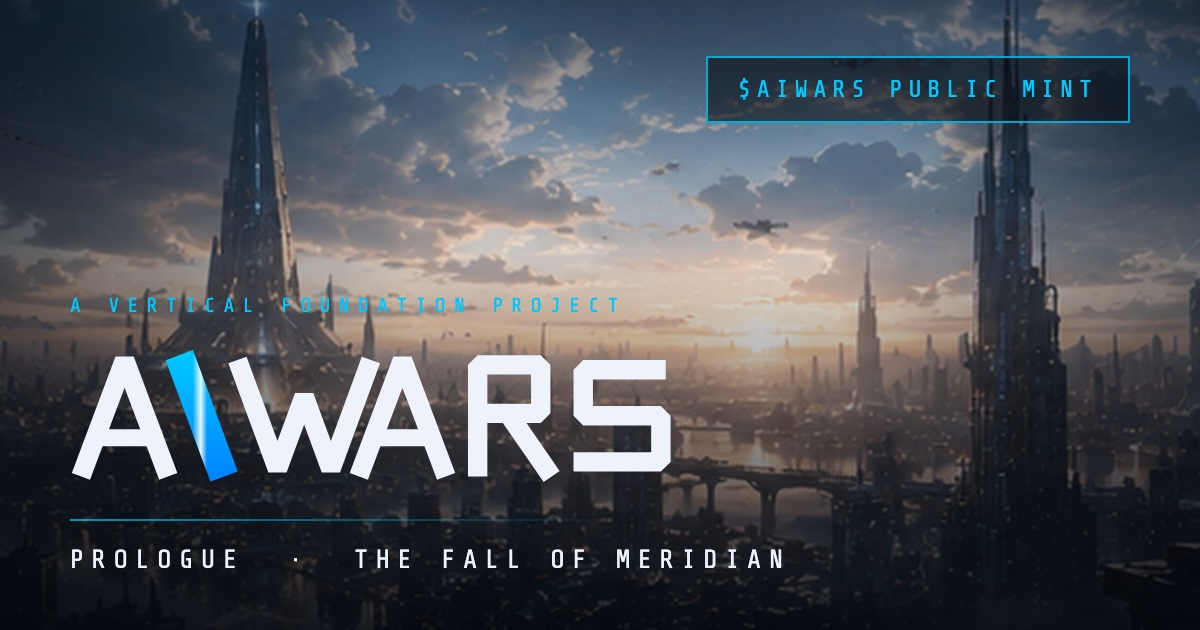
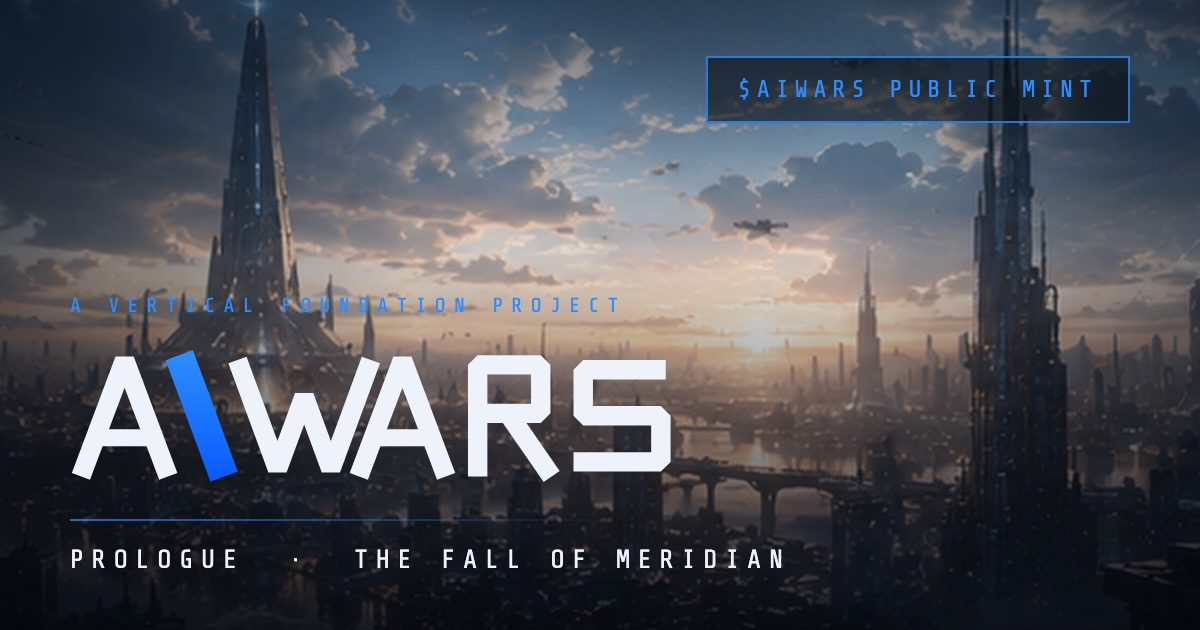
Zoom blue (#0b5cff/#2d8cff) accent palette, flat I without gleam

diff --git a/app/globals.css b/app/globals.css
@@ -8,8 +8,8 @@
   --color-ink: #eef3fb;
   --color-dim: #b9c5da;
   --color-faint: #8fa0ba;
-  --color-signal: #00c8ff;
-  --color-signal-deep: #0084ff;
+  --color-signal: #2d8cff;
+  --color-signal-deep: #0b5cff;
   --color-ember: #f0954f;
   --font-display: var(--font-display);
   --font-body: var(--font-body);
@@ -29,7 +29,7 @@ body {
 }
 
 ::selection {
-  background: rgba(0, 200, 255, 0.25);
+  background: rgba(45, 140, 255, 0.25);
   color: #ffffff;
 }
 
@@ -74,8 +74,8 @@ p {
 }
 
 .panel-glow:hover {
-  border-color: rgba(0, 200, 255, 0.45);
-  box-shadow: 0 0 40px rgba(0, 132, 255, 0.08), inset 0 0 24px rgba(0, 132, 255, 0.04);
+  border-color: rgba(45, 140, 255, 0.45);
+  box-shadow: 0 0 40px rgba(11, 92, 255, 0.08), inset 0 0 24px rgba(11, 92, 255, 0.04);
   transform: translateY(-2px);
 }
 
@@ -175,7 +175,7 @@ p {
 /* -- thin gradient rule -- */
 .rule {
   height: 1px;
-  background: linear-gradient(90deg, transparent, rgba(0, 200, 255, 0.4), transparent);
+  background: linear-gradient(90deg, transparent, rgba(45, 140, 255, 0.4), transparent);
 }
 
 /* -- slow drift for section background art -- */
@@ -197,7 +197,7 @@ p {
 }
 
 .grad-text {
-  background: linear-gradient(90deg, #0084ff, #eef3fb, #00c8ff, #0084ff);
+  background: linear-gradient(90deg, #0b5cff, #eef3fb, #2d8cff, #0b5cff);
   background-size: 250% auto;
   -webkit-background-clip: text;
   background-clip: text;
@@ -216,8 +216,8 @@ p {
 
 /* -- pulsing primary CTA -- */
 @keyframes ctapulse {
-  0%, 100% { box-shadow: 0 0 0 0 rgba(0, 132, 255, 0.35), 0 0 24px rgba(0, 132, 255, 0.12); }
-  50% { box-shadow: 0 0 0 6px rgba(0, 132, 255, 0), 0 0 44px rgba(0, 132, 255, 0.3); }
+  0%, 100% { box-shadow: 0 0 0 0 rgba(11, 92, 255, 0.35), 0 0 24px rgba(11, 92, 255, 0.12); }
+  50% { box-shadow: 0 0 0 6px rgba(11, 92, 255, 0), 0 0 44px rgba(11, 92, 255, 0.3); }
 }
 
 .btn-pulse {
@@ -228,7 +228,7 @@ p {
 .agent-tile {
   position: relative;
   overflow: hidden;
-  border: 1px solid rgba(0, 200, 255, 0.14);
+  border: 1px solid rgba(45, 140, 255, 0.14);
   background:
     linear-gradient(150deg, hsl(var(--hue) 85% 62% / 0.2), rgba(6, 10, 20, 0.92) 60%),
     linear-gradient(330deg, hsl(var(--hue) 85% 55% / 0.12), transparent 50%);
@@ -306,13 +306,13 @@ p {
 /* -- RGB-split glitch bursts on the hero wordmark -- */
 @keyframes glitchshift {
   0%, 34%, 42%, 78%, 90%, 100% { filter: none; transform: none; opacity: 1; }
-  35% { filter: drop-shadow(-8px 0 rgba(0, 132, 255, 0.95)) drop-shadow(8px 0 rgba(240, 90, 79, 0.8)); transform: translate(4px, -3px) skewX(-4deg); }
-  36.5% { filter: drop-shadow(7px 0 rgba(0, 132, 255, 0.95)) drop-shadow(-7px 0 rgba(240, 90, 79, 0.8)); transform: translate(-6px, 2px) skewX(3deg); opacity: 0.85; }
-  38% { filter: drop-shadow(-4px 0 rgba(0, 200, 255, 0.9)) drop-shadow(4px 0 rgba(240, 149, 79, 0.7)); transform: translateX(3px) scaleY(1.02); }
-  40% { filter: drop-shadow(2px 0 rgba(0, 132, 255, 0.8)); transform: translateX(-1px); }
-  79% { filter: drop-shadow(9px 0 rgba(0, 132, 255, 0.95)) drop-shadow(-9px 0 rgba(240, 90, 79, 0.85)); transform: translate(-5px, 3px) skewX(5deg); opacity: 0.8; }
-  81% { filter: drop-shadow(-6px 0 rgba(0, 200, 255, 0.9)) drop-shadow(6px 0 rgba(240, 149, 79, 0.75)); transform: translate(5px, -2px) skewX(-3deg); }
-  83.5% { filter: drop-shadow(3px 0 rgba(0, 132, 255, 0.85)); transform: translateX(2px) scaleY(0.99); }
+  35% { filter: drop-shadow(-8px 0 rgba(11, 92, 255, 0.95)) drop-shadow(8px 0 rgba(240, 90, 79, 0.8)); transform: translate(4px, -3px) skewX(-4deg); }
+  36.5% { filter: drop-shadow(7px 0 rgba(11, 92, 255, 0.95)) drop-shadow(-7px 0 rgba(240, 90, 79, 0.8)); transform: translate(-6px, 2px) skewX(3deg); opacity: 0.85; }
+  38% { filter: drop-shadow(-4px 0 rgba(45, 140, 255, 0.9)) drop-shadow(4px 0 rgba(240, 149, 79, 0.7)); transform: translateX(3px) scaleY(1.02); }
+  40% { filter: drop-shadow(2px 0 rgba(11, 92, 255, 0.8)); transform: translateX(-1px); }
+  79% { filter: drop-shadow(9px 0 rgba(11, 92, 255, 0.95)) drop-shadow(-9px 0 rgba(240, 90, 79, 0.85)); transform: translate(-5px, 3px) skewX(5deg); opacity: 0.8; }
+  81% { filter: drop-shadow(-6px 0 rgba(45, 140, 255, 0.9)) drop-shadow(6px 0 rgba(240, 149, 79, 0.75)); transform: translate(5px, -2px) skewX(-3deg); }
+  83.5% { filter: drop-shadow(3px 0 rgba(11, 92, 255, 0.85)); transform: translateX(2px) scaleY(0.99); }
   86% { filter: none; transform: none; }
 }
 
@@ -333,7 +333,7 @@ p {
   left: 0;
   right: 0;
   height: 2px;
-  background: linear-gradient(90deg, transparent, rgba(0, 200, 255, 0.8), transparent);
+  background: linear-gradient(90deg, transparent, rgba(45, 140, 255, 0.8), transparent);
   animation: scanmove 10s linear infinite;
   pointer-events: none;
 }
@@ -350,7 +350,7 @@ p {
   pointer-events: none;
   opacity: 0.5;
   background-image:
-    radial-gradient(1.5px 1.5px at 40px 60px, rgba(0, 200, 255, 0.9), transparent 60%),
+    radial-gradient(1.5px 1.5px at 40px 60px, rgba(45, 140, 255, 0.9), transparent 60%),
     radial-gradient(1px 1px at 180px 220px, rgba(238, 243, 251, 0.7), transparent 60%);
   background-size: 560px 560px, 420px 420px;
   animation: stardrift 90s linear infinite;
@@ -367,7 +367,7 @@ p {
   position: absolute;
   width: 14px;
   height: 14px;
-  border-color: rgba(0, 200, 255, 0.45);
+  border-color: rgba(45, 140, 255, 0.45);
   border-style: solid;
   transition: width 0.35s ease, height 0.35s ease, border-color 0.35s ease;
   pointer-events: none;
@@ -389,7 +389,7 @@ p {
 .panel-glow:hover::after {
   width: 28px;
   height: 28px;
-  border-color: rgba(0, 200, 255, 0.95);
+  border-color: rgba(45, 140, 255, 0.95);
 }
 
 @media (prefers-reduced-motion: reduce) {

diff --git a/components/Logo.tsx b/components/Logo.tsx
@@ -14,21 +14,8 @@ export default function Logo({ className = "" }: { className?: string }) {
     >
       <defs>
         <linearGradient id="aiwars-i" x1="0" y1="0" x2="0" y2="1">
-          <stop offset="0%" stopColor="#00c8ff" />
-          <stop offset="100%" stopColor="#0084ff" />
-        </linearGradient>
-        <linearGradient id="aiwars-shine" x1="0" y1="0" x2="1" y2="0">
-          <stop offset="35%" stopColor="#ffffff" stopOpacity="0" />
-          <stop offset="50%" stopColor="#ffffff" stopOpacity="0.95" />
-          <stop offset="65%" stopColor="#ffffff" stopOpacity="0" />
-          <animateTransform
-            attributeName="gradientTransform"
-            type="translate"
-            from="-1.2 0"
-            to="1.2 0"
-            dur="3.2s"
-            repeatCount="indefinite"
-          />
+          <stop offset="0%" stopColor="#2d8cff" />
+          <stop offset="100%" stopColor="#0b5cff" />
         </linearGradient>
       </defs>
       {/* A */}
@@ -41,7 +28,6 @@ export default function Logo({ className = "" }: { className?: string }) {
       <path d="M22 78 L68 78" stroke="currentColor" strokeWidth="14" />
       {/* I — thick blue bar, parallel to and centered between the A and W slants */}
       <path d="M90 10 L127 110" stroke="url(#aiwars-i)" strokeWidth="24" />
-      <path d="M90 10 L127 110" stroke="url(#aiwars-shine)" strokeWidth="24" />
       {/* W */}
       <path
         d="M138 14 L171 104 L193 44 L215 104 L248 14"

diff --git a/components/LiveSignal.tsx b/components/LiveSignal.tsx
@@ -48,13 +48,13 @@ export default function LiveSignal() {
       >
         <defs>
           <linearGradient id="sigstroke" x1="0" y1="0" x2="1" y2="0">
-            <stop offset="0%" stopColor="#0084ff" stopOpacity="0.15" />
-            <stop offset="70%" stopColor="#0084ff" />
-            <stop offset="100%" stopColor="#00c8ff" />
+            <stop offset="0%" stopColor="#0b5cff" stopOpacity="0.15" />
+            <stop offset="70%" stopColor="#0b5cff" />
+            <stop offset="100%" stopColor="#2d8cff" />
           </linearGradient>
           <linearGradient id="sigfill" x1="0" y1="0" x2="0" y2="1">
-            <stop offset="0%" stopColor="#0084ff" stopOpacity="0.28" />
-            <stop offset="100%" stopColor="#0084ff" stopOpacity="0" />
+            <stop offset="0%" stopColor="#0b5cff" stopOpacity="0.28" />
+            <stop offset="100%" stopColor="#0b5cff" stopOpacity="0" />
           </linearGradient>
         </defs>
         <path d={area} fill="url(#sigfill)" />
@@ -67,7 +67,7 @@ export default function LiveSignal() {
           strokeLinecap="round"
           style={{ transition: "d 0.6s linear" }}
         />
-        <circle cx={W} cy={lastY} r="4" fill="#00c8ff">
+        <circle cx={W} cy={lastY} r="4" fill="#2d8cff">
           <animate attributeName="opacity" values="1;0.3;1" dur="1.8s" repeatCount="indefinite" />
         </circle>
       </svg>
